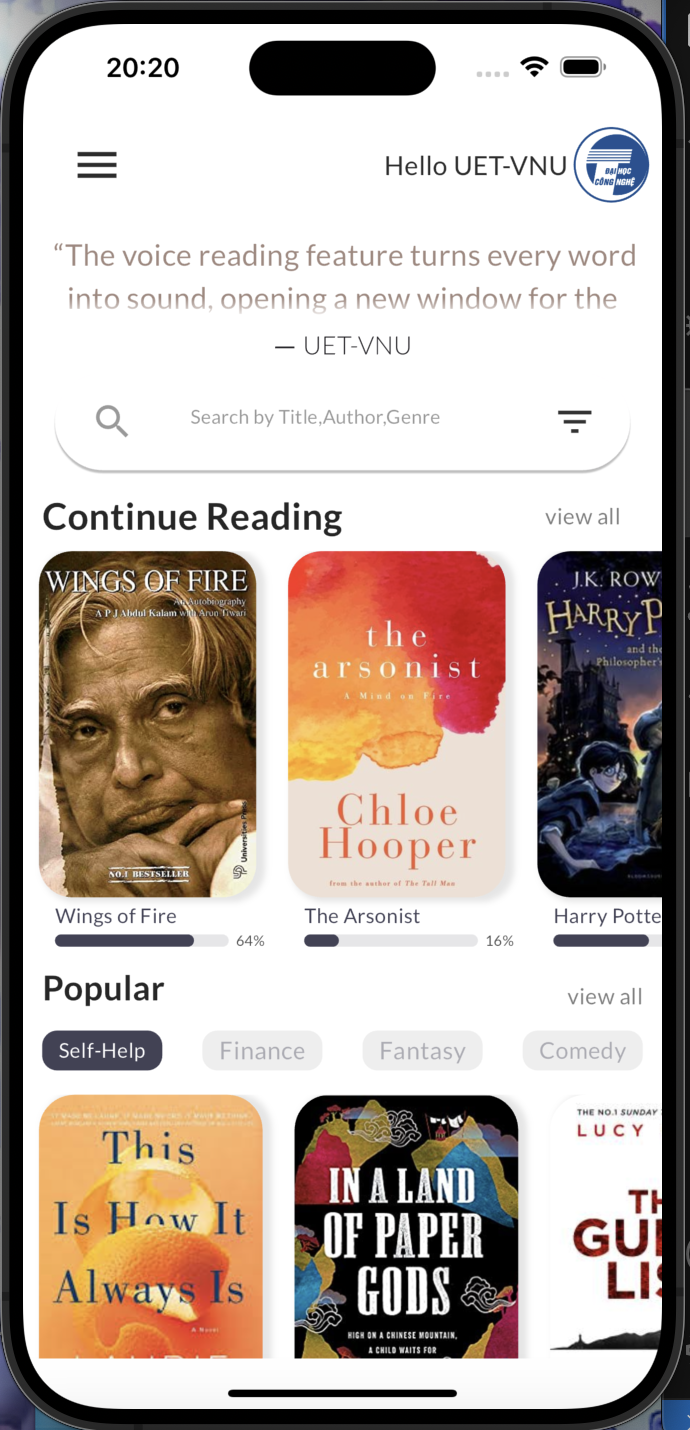
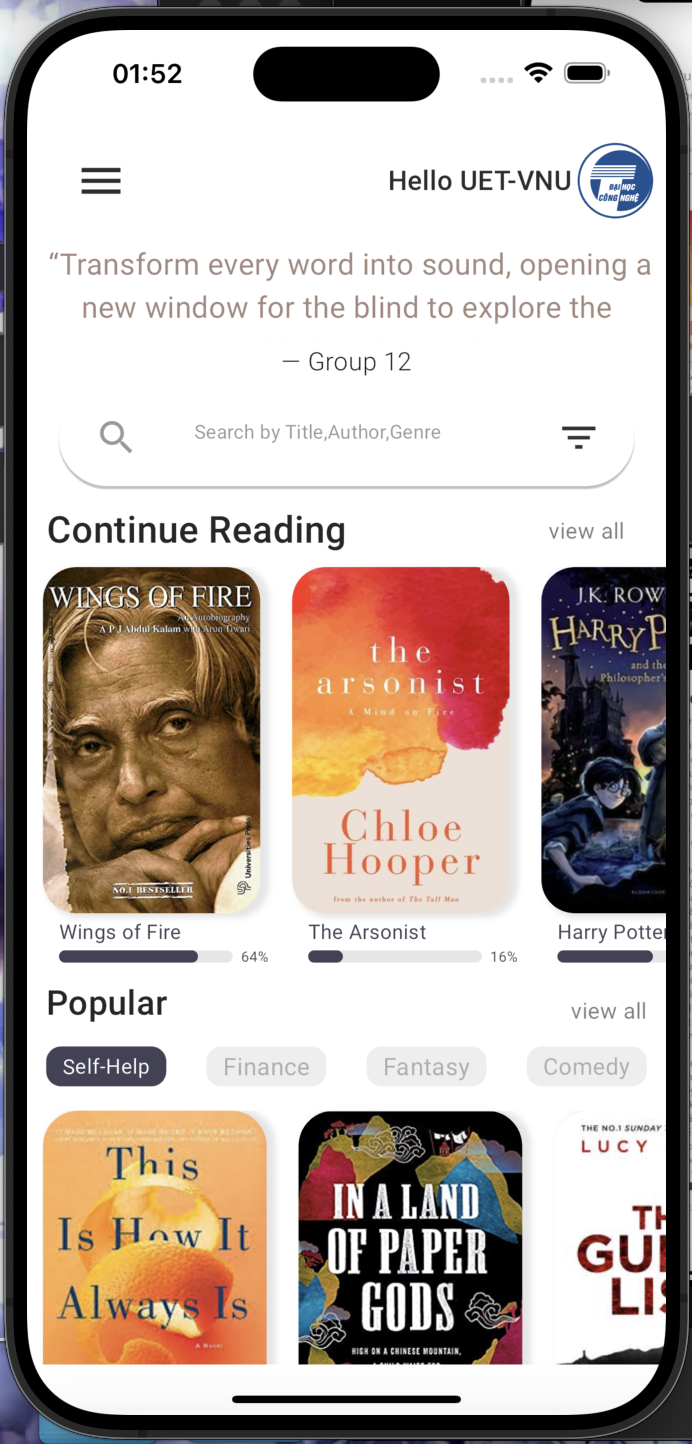
update README

Changed region(s): [[0.0, 0.0, 1.0, 1.0]]

diff --git a/lib/Homepage.dart b/lib/Homepage.dart
@@ -111,7 +111,7 @@ class _HomepageState extends State<Homepage> {
                           color: Colors.white,
                           child: Center(
                             child: Text(
-                              "― UET-VNU",
+                              "― Group 12",
                               textAlign: TextAlign.center,
                               maxLines: 4,
                               overflow: TextOverflow.fade,

diff --git a/README.md b/README.md
@@ -7,7 +7,7 @@
   <img src="https://github.com/Houangnt/Ebook/blob/main/assets/images/2.png" width="180" title="ContentPage">  ➜ Listen
   <img src="https://github.com/Houangnt/Ebook/blob/main/assets/images/4.png" width="180" title="Listen">  ➜  Read
   <img src="https://github.com/Houangnt/Ebook/blob/main/assets/images/3.png" width="180" title="Read">    ➜  Summarize 
-  <img src="https://github.com/Houangnt/Ebook/blob/main/assets/images/3.png" width="180" title="Summarize">
+  <img src="https://github.com/Houangnt/Ebook/blob/main/assets/images/5.png" width="180" title="Summarize">
   
   
   
